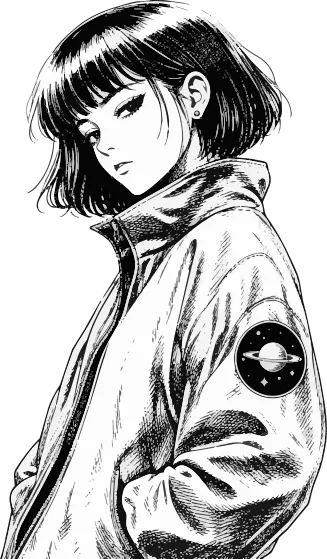
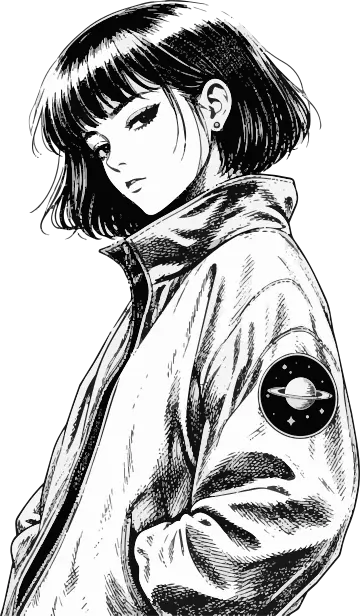
Swap mascot to mascotDM2 (new ink illustration), transparent webp @935w + 360w footer, cache-busted refs

diff --git a/public/web_assets/site_shell.js b/public/web_assets/site_shell.js
@@ -122,7 +122,7 @@
       return /\/(play|console|builder|ai|tools|guides|blog)(\/|$)/.test(p) ? '../' : '';
     })();
     const licenseHref = isFile ? `${rootPrefix}LICENSE.txt` : '/LICENSE.txt';
-    const mascotSrc = isFile ? `${rootPrefix}web_assets/mascot/mascot-sm.webp` : '/web_assets/mascot/mascot-sm.webp';
+    const mascotSrc = isFile ? `${rootPrefix}web_assets/mascot/mascot-sm.webp?v=2` : '/web_assets/mascot/mascot-sm.webp?v=2';
 
     const socials = [
       { key: 'x', label: 'X', href: 'https://x.com/DungeonMastron' },

diff --git a/public/index.html b/public/index.html
@@ -665,7 +665,7 @@
             <circle cx="522" cy="662" r="1.5" fill="rgba(236,230,218,0.4)"/>
           </svg>
         </div>
-        <img class="mascot" src="web_assets/mascot/mascot.webp" alt="" width="935" height="1600" fetchpriority="high" />
+        <img class="mascot" src="web_assets/mascot/mascot.webp?v=2" alt="" width="935" height="1599" fetchpriority="high" />
       </div>
     </div>
   </header>
